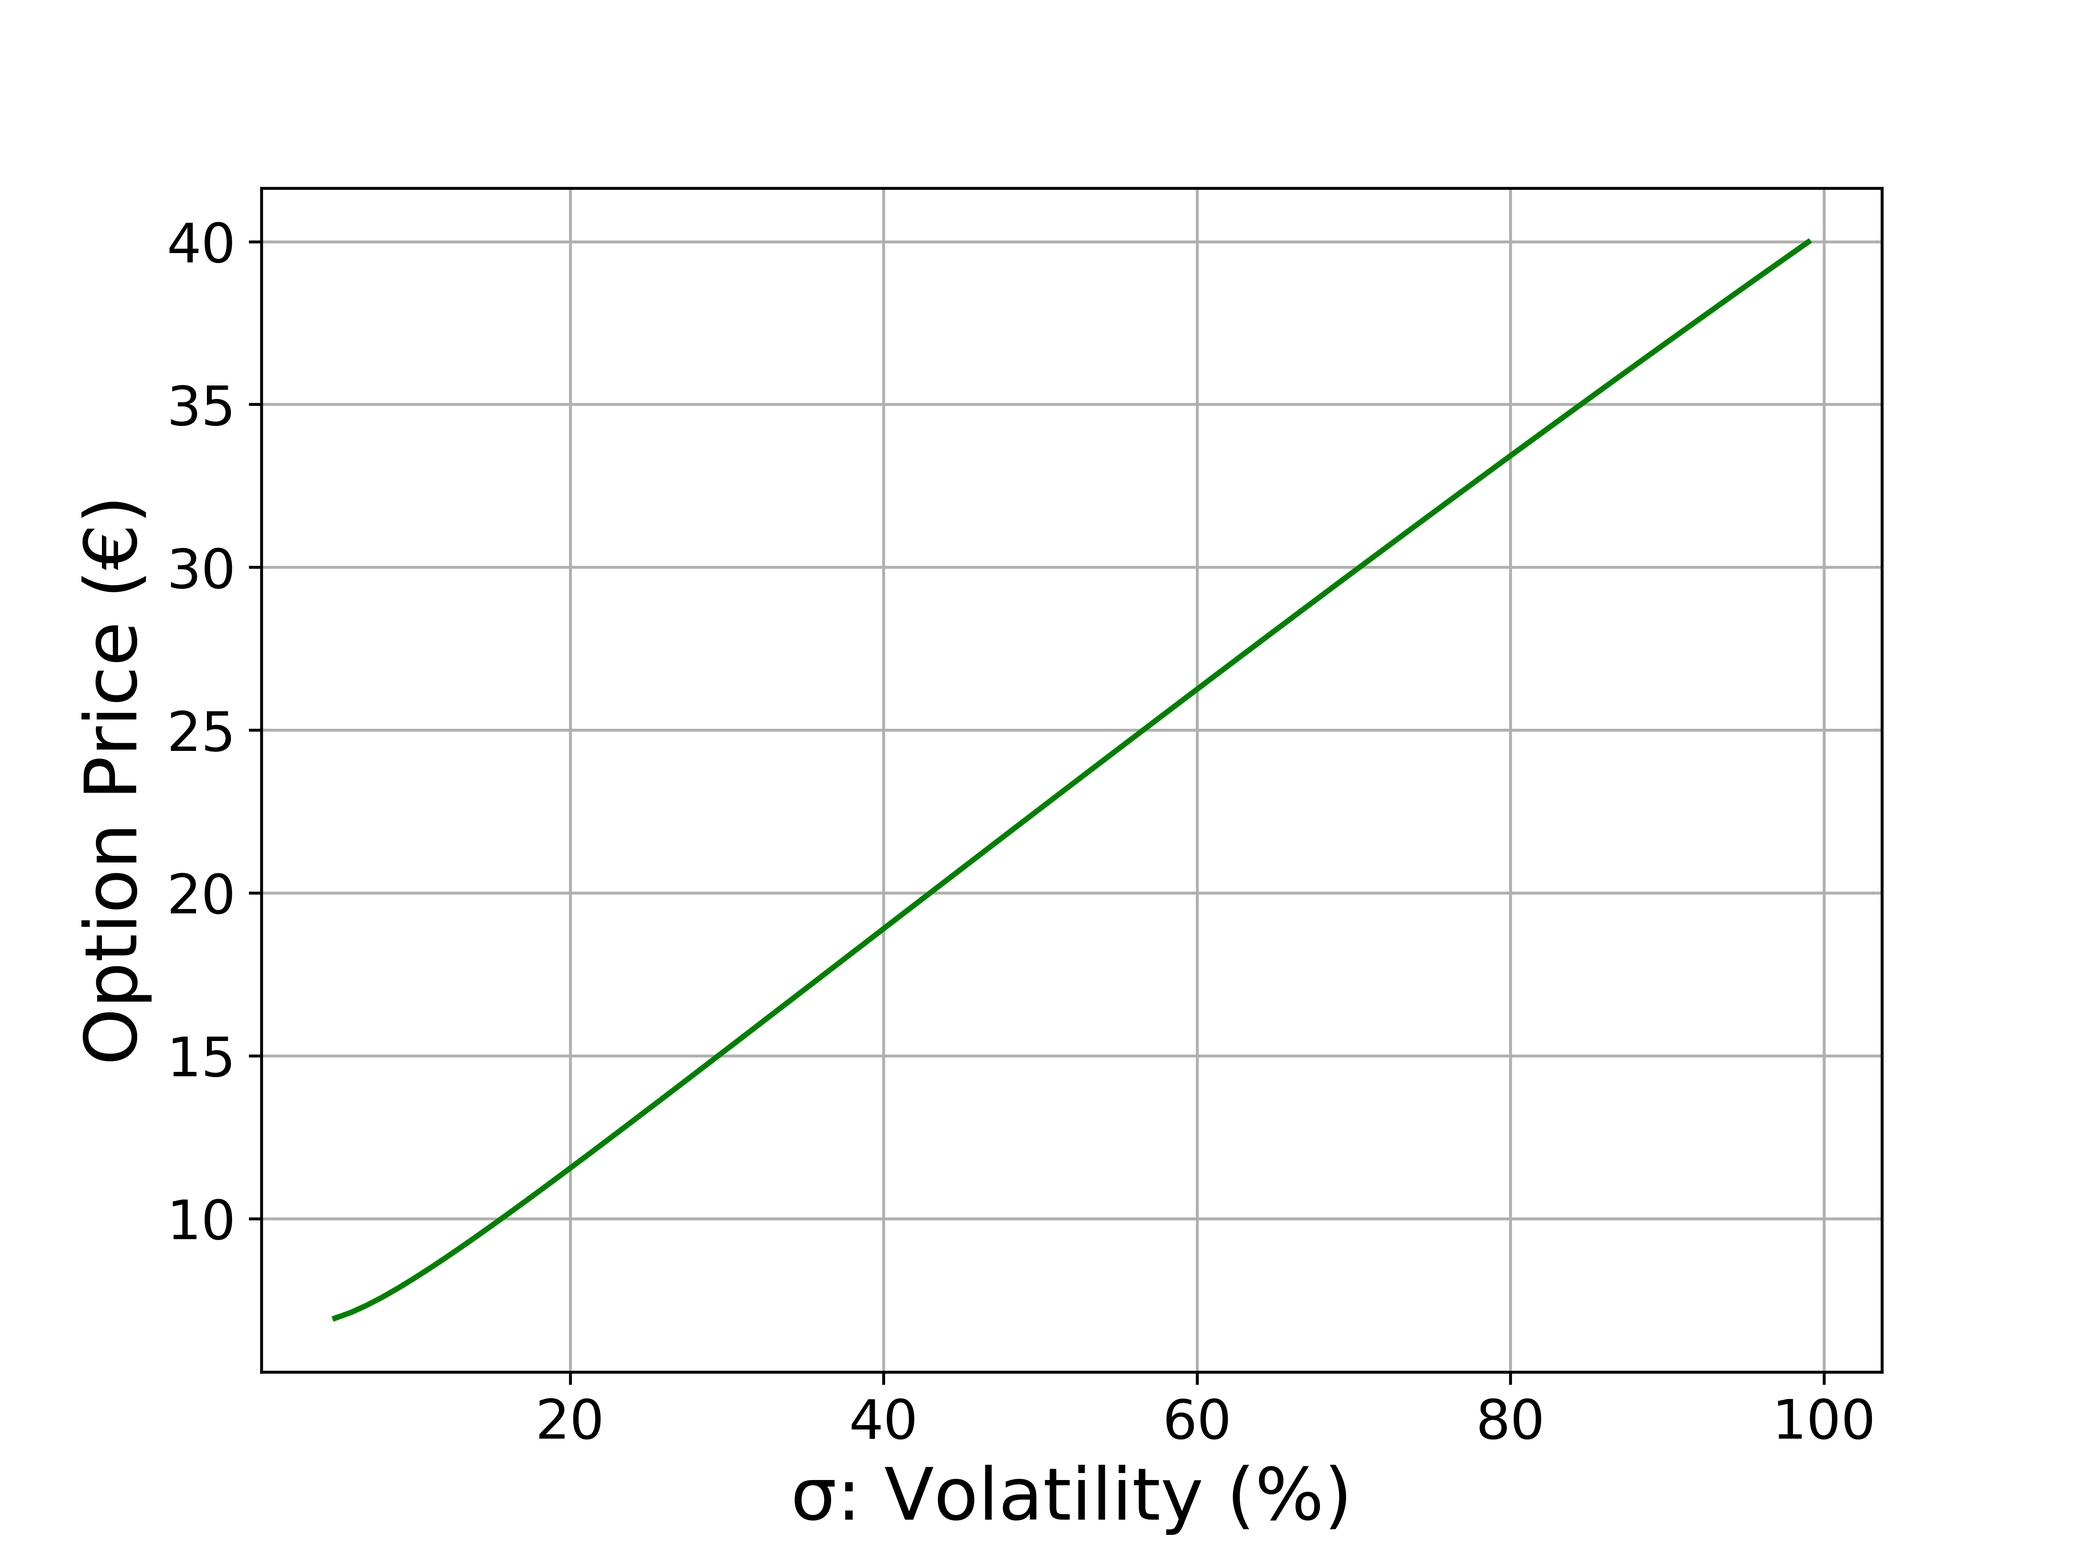
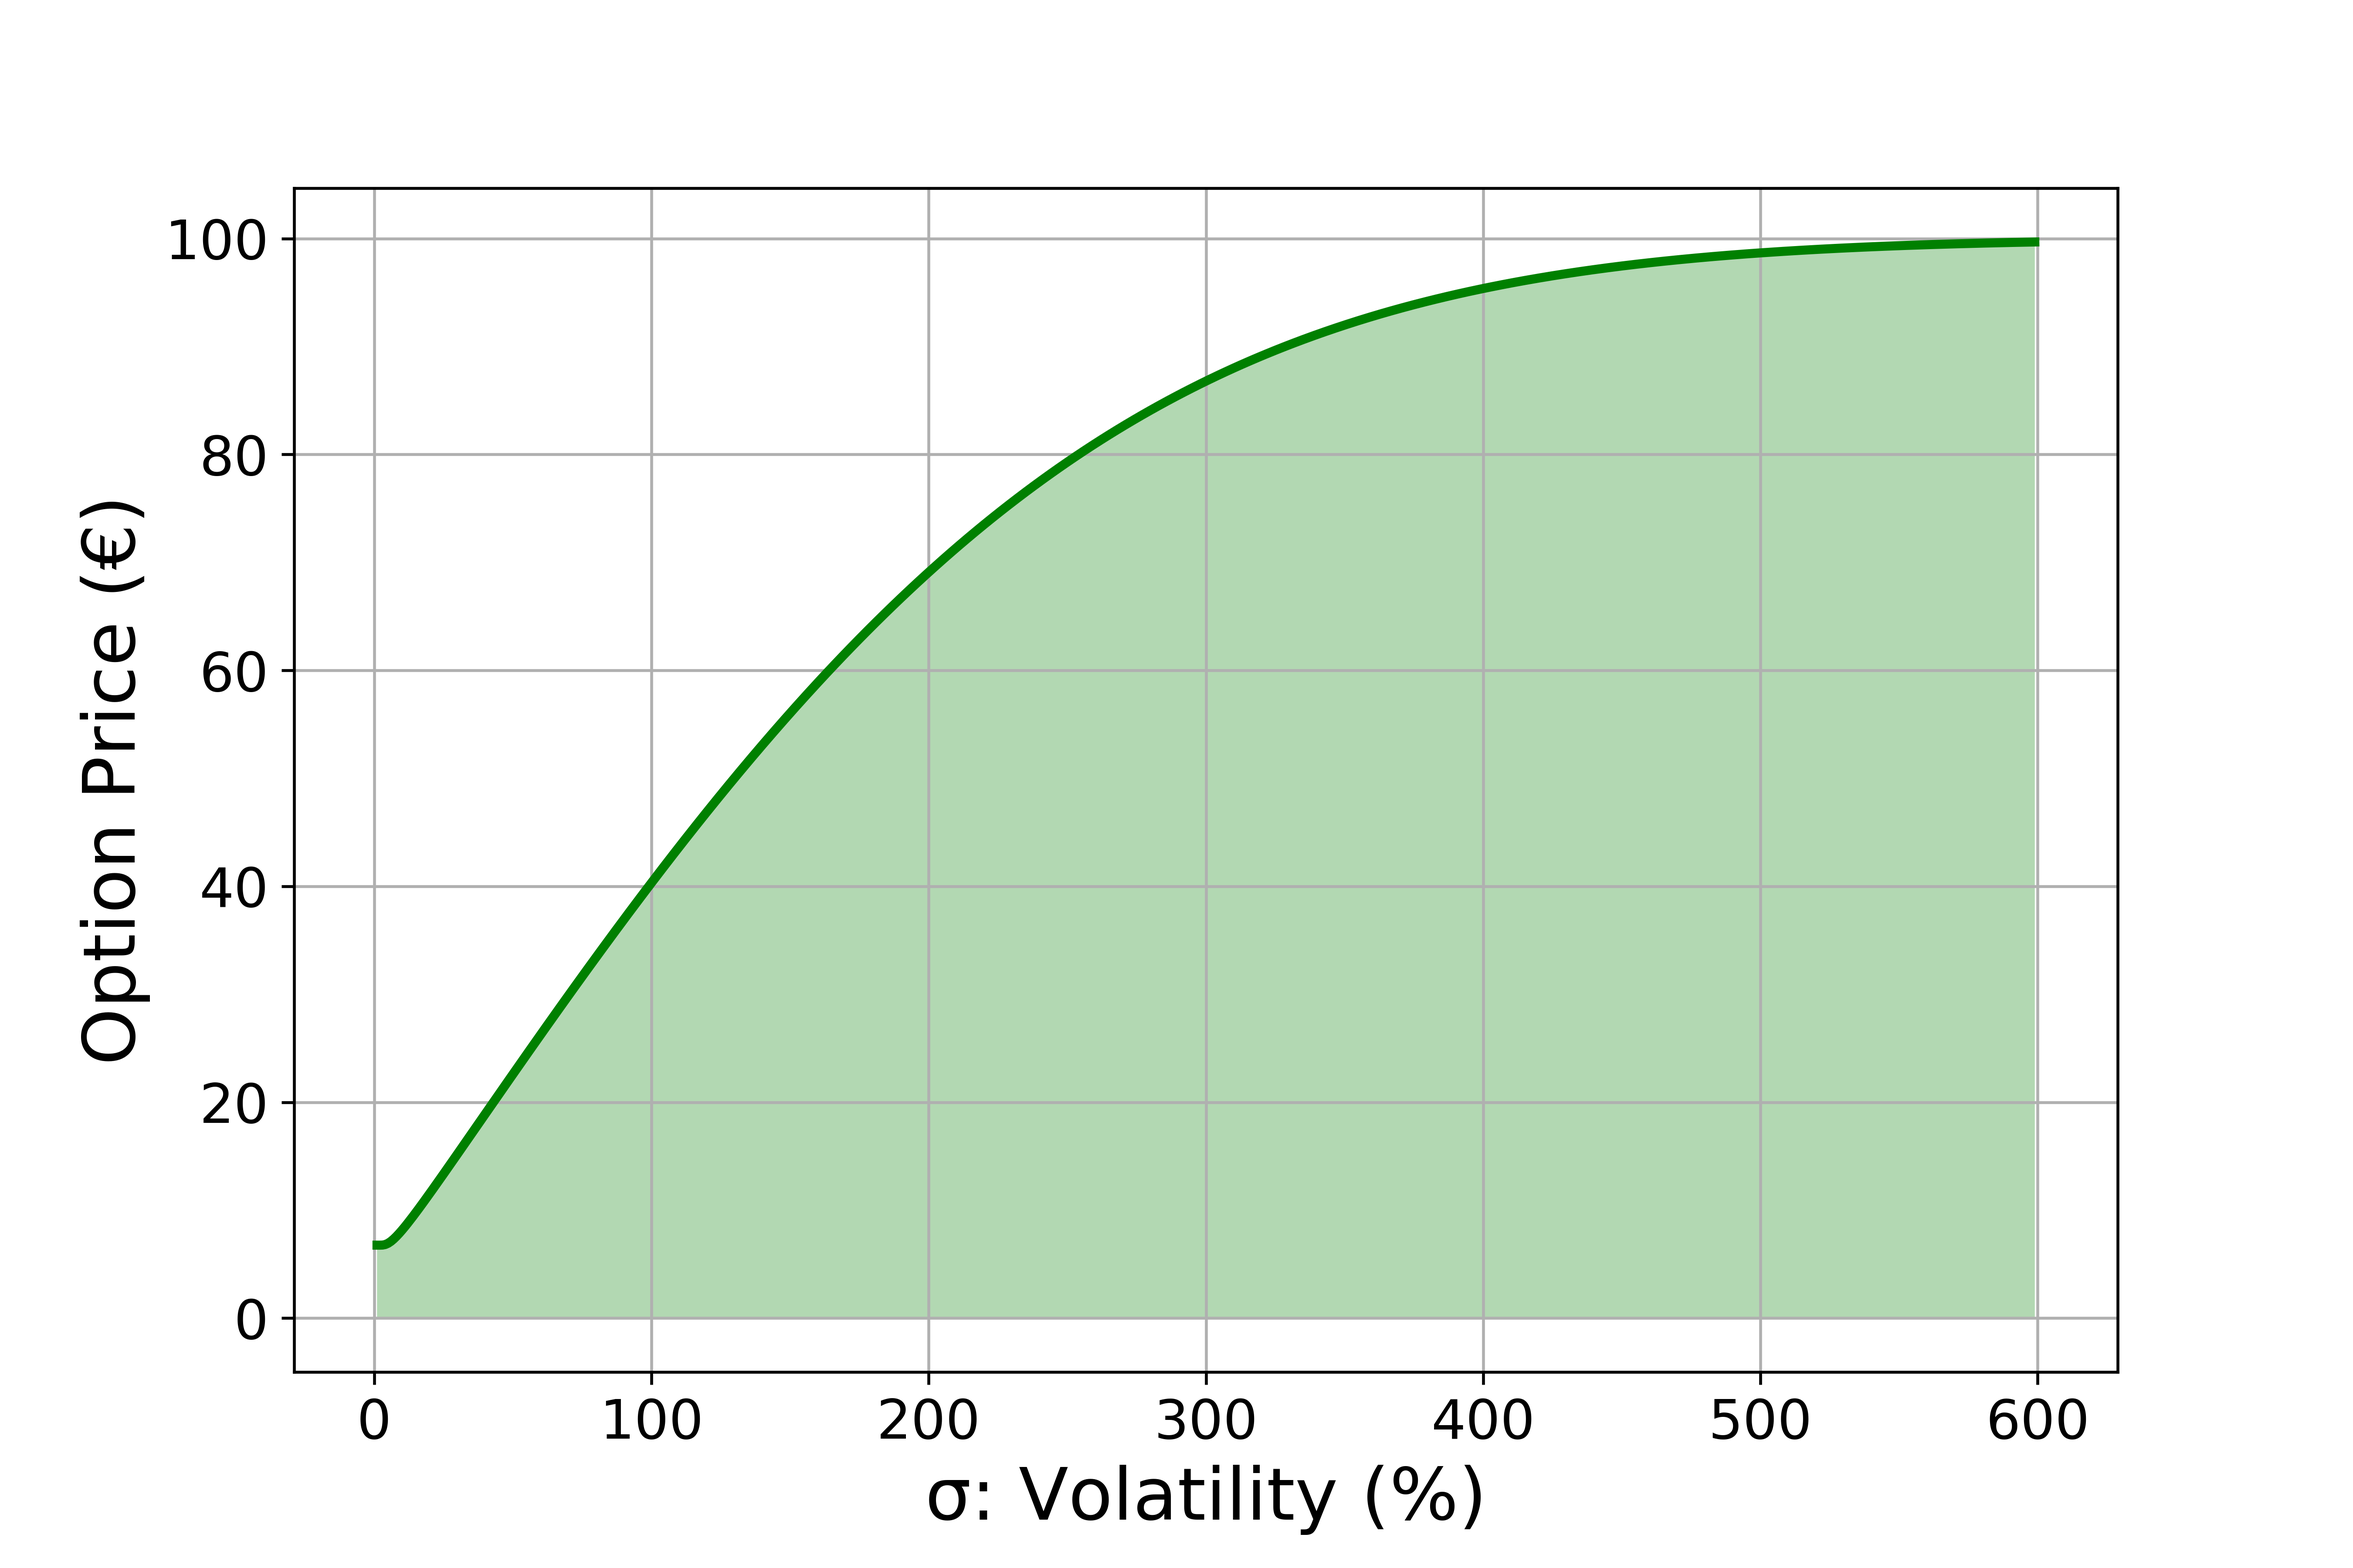
Moar Plots

diff --git a/BinomialTree.py b/BinomialTree.py
@@ -9,6 +9,7 @@ Code by Philippe Nicolau, Lotte Felius & Beau Furnée
 import math
 import matplotlib.pyplot as plt
 from scipy.integrate import quad
+import numpy as np
 
 
 #BLACK-SCHOLES####################
@@ -37,6 +38,9 @@ def black_scholes(t,st,k,T,sigma,r):
     opt_price = opt_price - N(d2) * k * math.exp(-r*(T-t))
         
     return delta, opt_price
+
+
+
 
 def b_tree(K, r, s0, sigma, time, steps, c = 0):
 #b_tree(99,0.06,100,0.2,1,50,c = 0)
@@ -98,10 +102,42 @@ def b_tree(K, r, s0, sigma, time, steps, c = 0):
     return dt_options, l_option[0], l_stocks
 
 
-def opt_vs_volatility(initvol,vol_max,vol_increment,K, r, s0, sigma, time, steps, c = 0):
+def an_opt_vs_vol(initvol,vol_max,vol_increment,t,st,k,T,r):
+    
+    options = []    
+
+    initvol = initvol*100
+    vol_max = vol_max*100
+    vol_increment = vol_increment*100
+    vol_range = range(int(initvol),int(vol_max),int(vol_increment))
+    
+    for sigma in vol_range:
+        sigma = sigma/100
+        d1_factor = (math.log(st/k)+(r+(sigma**2/2))*(T-t))
+        d1 = (1/(sigma * math.sqrt(T-t))) * d1_factor
+        d2 = d1 - sigma*math.sqrt(T-t)
+        opt_price = N(d1) * st
+        opt_price = opt_price - N(d2) * k * math.exp(-r*(T-t))
+        options.append(opt_price)
+    
+    plt.figure(figsize=(9,6))
+    plt.grid()
+    plt.ylabel('Option Price (€)',fontsize=20)
+    plt.xlabel('σ: Volatility (%)',fontsize=20)
+    plt.tick_params(axis='both', which='major', labelsize=15)
+    plt.plot(vol_range,options,linewidth = '2.5')
+    plt.fill_between(vol_range,options, facecolor = 'Blue', alpha = 0.3)
+    plt.savefig('Images/I-1_An_Opt_vsSigma',dpi=600)
+
+        
+    return opt_price    
+
+
+def opt_vs_volatility(initvol,vol_max,vol_increment,K, r, s0, t ,T, steps, c = 0):
     
     '''    
-    Evaluate option price for a range of values for sigma (the volatility) with plot.
+    Evaluate option price for a range of values for sigma (the volatility)
+    with plot.
     (Question I.1)
     
     Arguments
@@ -117,7 +153,8 @@ def opt_vs_volatility(initvol,vol_max,vol_increment,K, r, s0, sigma, time, steps
         steps: number of steps taken in the binomial tree
     '''
 
-    options = []    
+    options = []   
+    an_options = []
 
     initvol = initvol*100
     vol_max = vol_max*100
@@ -125,18 +162,73 @@ def opt_vs_volatility(initvol,vol_max,vol_increment,K, r, s0, sigma, time, steps
     vol_range = range(int(initvol),int(vol_max),int(vol_increment))
     
     for sigma in vol_range:
-        option = b_tree(K, r, s0, sigma/100, time, steps, c = 0)[0]
+        sigma = sigma/100
+        
+        #Black-Scholes
+        d1_factor = (math.log(s0/K)+(r+(sigma**2/2))*(T-t))
+        d1 = (1/(sigma * math.sqrt(T-t))) * d1_factor
+        d2 = d1 - sigma*math.sqrt(T-t)
+        opt_price = N(d1) * s0
+        opt_price = opt_price - N(d2) * K * math.exp(-r*(T-t))
+        an_options.append(opt_price)
+
+        #Binomial tree
+        option = b_tree(K, r, s0, sigma, T, steps, c = 0)[1]
         options.append(option)
 
-    plt.figure(figsize=(8,6))
+    plt.figure(figsize=(9,6))
     plt.grid()
     plt.ylabel('Option Price (€)',fontsize=20)
     plt.xlabel('σ: Volatility (%)',fontsize=20)
     plt.tick_params(axis='both', which='major', labelsize=15)
-    plt.plot(vol_range,options,color='green')
-    plt.savefig('Images/I-1_Opt_vsSigma',dpi=600)
+    plt.plot(vol_range,options,color='green',linewidth = '2.5')
+    plt.plot(vol_range,an_options,linewidth = '2.5')
+    plt.fill_between(vol_range,options, facecolor = 'Green', alpha = 0.3)
+    #plt.savefig('Images/I-1_Opt_vsSigma_An',dpi=600)
 
+    plt.figure(figsize=(9,6))
+    plt.grid()
+    plt.ylabel('Difference (%)',fontsize=20)
+    plt.xlabel('σ: Volatility (%)',fontsize=20)
+    plt.tick_params(axis='both', which='major', labelsize=15)
+    plt.plot(vol_range,[options[i]-an_options[i] for i in range(len(options))],'r',linewidth = 2.5)
+    plt.savefig('Images/I-1_OP_vsSigma_Diff')
+    
+# =============================================================================
+#     plt.figure(figsize=(9,6))
+#     plt.grid()
+#     plt.ylabel('Difference (%)',fontsize=20)
+#     plt.xlabel('σ: Volatility (%)',fontsize=20)
+#     plt.tick_params(axis='both', which='major', labelsize=15)
+#     plt.plot(vol_range,[options[i]-an_options[i] for i in range(len(options))],'r',linewidth = 2.5)
+#     plt.plot(vol_range,options,color='green',linewidth = '2.5')
+#     plt.plot(vol_range,an_options,linewidth = '2.5')
+#     plt.fill_between(vol_range,options, facecolor = 'Green', alpha = 0.3)
+# =============================================================================
+    
+ 
+    
+    fig, ax1 = plt.subplots(figsize=(9,6))
 
+    color = 'tab:blue'
+    ax1.set_xlabel('σ: Volatility (%)', fontsize=20)
+    ax1.set_ylabel('Option Price (€)', color=color, fontsize=20)  # we already handled the x-label with ax1
+    ax1.plot(vol_range,options,color='green',linewidth = '2.5')
+    ax1.plot(vol_range,an_options,linewidth = '2.5')
+    ax1.fill_between(vol_range,options, facecolor = 'Green', alpha = 0.3)
+    ax1.tick_params(axis='y', labelcolor=color, which='major', labelsize=15)
+    ax1.grid()
+    
+    ax2 = ax1.twinx()  # instantiate a second axes that shares the same x-axis
+    
+    color = 'tab:red'
+    ax2.set_ylabel('Difference between Methods(€)', color=color,fontsize=20)
+    ax2.plot(vol_range,[options[i]-an_options[i] for i in range(len(options))],'r',linewidth = 2.5, alpha = 0.75)
+    ax2.grid()
+    ax2.tick_params(axis='y', labelcolor=color, which='major', labelsize=15)
+    print(options[-1]-an_options[-1])
+    fig.tight_layout()  
+    plt.savefig('Images/Full_I1',dpi=600)
 
 def options_forXsteps(init,steps_range,increment,K, r, s0, sigma, time):
 
